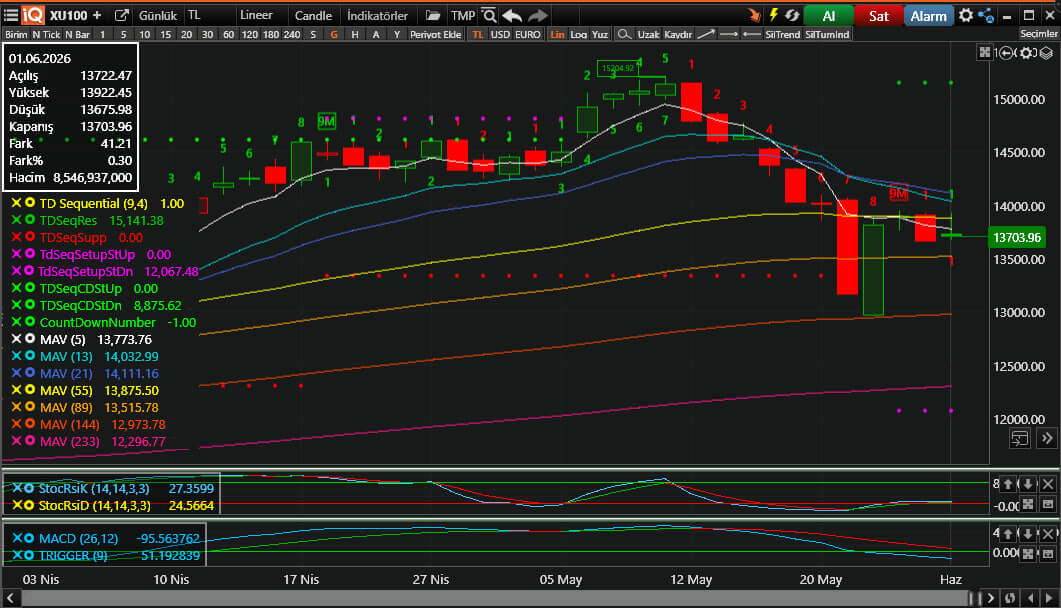
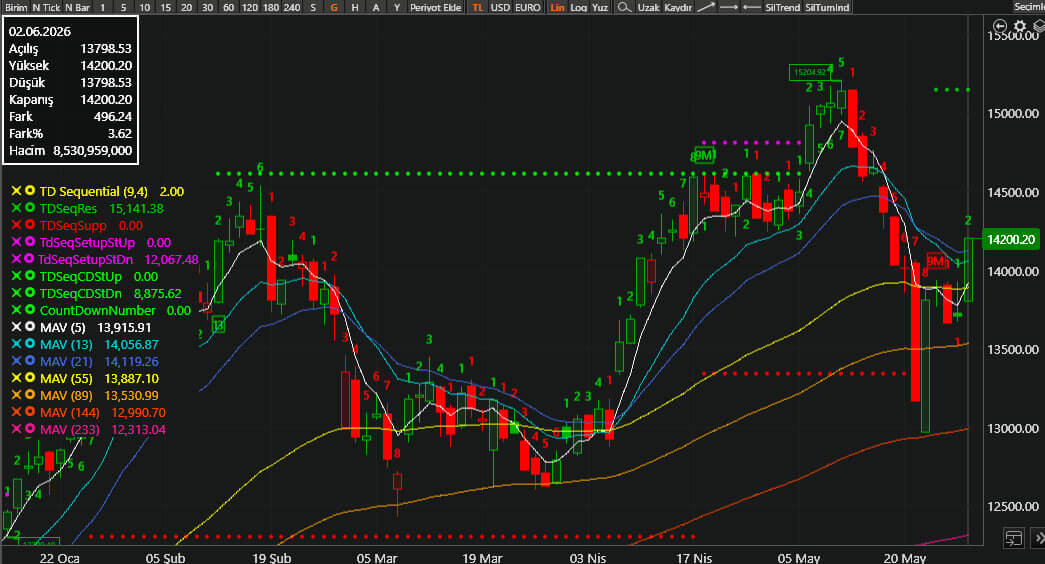
yaz

diff --git a/app/borsa/gunluk-borsa-ozeti/page.tsx b/app/borsa/gunluk-borsa-ozeti/page.tsx
@@ -2,121 +2,105 @@ import Image from "next/image";
 import Link from "next/link";
 
 const bistVeri = {
-  tarih: "01.06.2026",
-  kapanis: "13703.96",
-  degisimYuzde: 0.3,
-  toplamHacim: "301.970.056.573",
+  tarih: "02.06.2026",
+  kapanis: "14200.20",
+  degisimYuzde: 3.62,
+  toplamHacim: "315.260.306.181",
 };
 
 const tumYukselenler = [
-  { kod: "BIGTK", fark: "+10,00%" },
-  { kod: "SEGMN", fark: "+10,00%" },
-  { kod: "ATATP", fark: "+9,99%" },
-  { kod: "EMPAE", fark: "+9,99%" },
-  { kod: "MIATK", fark: "+9,99%" },
-  { kod: "CELHA", fark: "+9,99%" },
-  { kod: "ACSEL", fark: "+9,99%" },
-  { kod: "SMART", fark: "+9,98%" },
+  { kod: "GMTAS", fark: "+10,00%" },
+  { kod: "KARTN", fark: "+10,00%" },
+  { kod: "ISKPL", fark: "+10,00%" },
+  { kod: "GESAN", fark: "+10,00%" },
+  { kod: "KNFRT", fark: "+10,00%" },
+  { kod: "AKMGY", fark: "+10,00%" },
+  { kod: "ESCAR", fark: "+10,00%" },
+  { kod: "BJKAS", fark: "+10,00%" },
+  { kod: "QPERPF1", fark: "+10,00%" },
 ];
 
 const tumDusenler = [
-  { kod: "RALYH", fark: "-10,00%" },
-  { kod: "APYVCF2", fark: "-10,00%" },
-  { kod: "ICBCT", fark: "-10,00%" },
-  { kod: "HPARTF2", fark: "-9,91%" },
-  { kod: "ALKLC", fark: "-9,19%" },
-  { kod: "KORDS", fark: "-8,93%" },
-  { kod: "RPTEKF2", fark: "-8,10%" },
-  { kod: "IZENR", fark: "-7,61%" },
+  { kod: "UCAYM", fark: "-10,00%" },
+  { kod: "RPSTPF2", fark: "-9,98%" },
+  { kod: "DERHL", fark: "-9,21%" },
+  { kod: "KTSKR", fark: "-6,41%" },
+  { kod: "RALYH", fark: "-5,60%" },
+  { kod: "KRDMB", fark: "-5,33%" },
+  { kod: "MHRGY", fark: "-5,17%" },
+  { kod: "ICUGS", fark: "-5,07%" },
+  { kod: "IZMDC", fark: "-4,51%" },
 ];
 
 const tumHacimliler = [
-  { kod: "AKBNK", hacim: "13.320.700.123" },
-  { kod: "THYAO", hacim: "13.117.523.899" },
-  { kod: "ASTOR", hacim: "11.837.745.727" },
-  { kod: "ASELS", hacim: "11.123.525.274" },
-  { kod: "KTLEV", hacim: "10.413.160.557" },
-  { kod: "EREGL", hacim: "9.405.024.143" },
-  { kod: "TUPRS", hacim: "7.429.088.645" },
-  { kod: "ISCTR", hacim: "7.301.657.699" },
+  { kod: "AKBNK", hacim: "15.173.127.030" },
+  { kod: "KTLEV", hacim: "13.961.277.023" },
+  { kod: "THYAO", hacim: "12.781.499.308" },
+  { kod: "ASTOR", hacim: "11.881.024.884" },
+  { kod: "ASELS", hacim: "10.995.928.495" },
+  { kod: "EKDMR", hacim: "9.271.245.675" },
+  { kod: "EREGL", hacim: "8.161.365.373" },
+  { kod: "ISCTR", hacim: "8.040.202.015" },
+  { kod: "YKBNK", hacim: "7.442.906.989" },
 ];
 
 const tumParaGirisi = [
-  { kod: "TUPRS", tutar: "+73.202.380" },
-  { kod: "YKBNK", tutar: "+73.151.486" },
-  { kod: "TCELL", tutar: "+70.855.021" },
-  { kod: "MIATK", tutar: "+58.762.227" },
-  { kod: "PETKM", tutar: "+57.729.183" },
-  { kod: "CWENE", tutar: "+35.967.116" },
-  { kod: "NETCD", tutar: "+34.799.031" },
-  { kod: "KRDMD", tutar: "+32.506.631" },
+  { kod: "ASTOR", tutar: "+246.176.342" },
+  { kod: "ASELS", tutar: "+234.077.702" },
+  { kod: "THYAO", tutar: "+201.603.220" },
+  { kod: "KCHOL", tutar: "+98.289.829" },
+  { kod: "ISCTR", tutar: "+95.039.012" },
+  { kod: "VAKBN", tutar: "+87.144.390" },
+  { kod: "SAHOL", tutar: "+80.810.731" },
+  { kod: "TUPRS", tutar: "+80.737.574" },
 ];
 
 const tumParaCikisi = [
-  { kod: "SAHOL", tutar: "-351.337.739" },
-  { kod: "AKBNK", tutar: "-267.410.912" },
-  { kod: "ASELS", tutar: "-224.351.339" },
-  { kod: "IZENR", tutar: "-104.359.613" },
-  { kod: "TSPOR", tutar: "-82.813.554" },
-  { kod: "KCHOL", tutar: "-73.311.134" },
-  { kod: "GENIL", tutar: "-61.790.021" },
-  { kod: "GESAN", tutar: "-54.744.044" },
+  { kod: "KTLEV", tutar: "-146.339.274" },
+  { kod: "AKBNK", tutar: "-135.353.992" },
+  { kod: "EKDMR", tutar: "-113.070.049" },
+  { kod: "MIATK", tutar: "-63.983.599" },
+  { kod: "YKBNK", tutar: "-59.138.910" },
+  { kod: "KRDMB", tutar: "-43.674.809" },
+  { kod: "ENKAI", tutar: "-43.082.764" },
 ];
 
 const enCokAlisYapanKurumlar = [
-  { kurum: "IS", hacim: "2.376.244.078", oran: "%17,92" },
-  { kurum: "TERA", hacim: "2.318.849.288", oran: "%17,49" },
-  { kurum: "QNB YATIRIM", hacim: "1.152.448.621", oran: "%8,69" },
-  { kurum: "YAPI KREDI", hacim: "1.025.719.278", oran: "%7,74" },
-  { kurum: "GARANTI BBVA", hacim: "935.597.045", oran: "%7,06" },
+  { kurum: "BANK OF AMERICA", hacim: "4.630.788.421", oran: "%29,84" },
+  { kurum: "YATIRIM FINANSMAN", hacim: "2.211.042.926", oran: "%14,25" },
+  { kurum: "ZIRAAT", hacim: "1.717.175.404", oran: "%11,07" },
+  { kurum: "PUSULA YAT.", hacim: "1.368.875.873", oran: "%8,82" },
+  { kurum: "YAPI KREDI", hacim: "1.153.767.391", oran: "%7,44" },
 ];
 
 const enCokSatisYapanKurumlar = [
-  { kurum: "BANK OF AMERICA", hacim: "-2.914.722.131", oran: "%21,98" },
-  { kurum: "GEDIK", hacim: "-2.153.787.947", oran: "%16,24" },
-  { kurum: "AK", hacim: "-1.606.322.147", oran: "%12,11" },
-  { kurum: "INFO", hacim: "-1.140.871.912", oran: "%8,60" },
-  { kurum: "BULLS YATIRIM", hacim: "-949.410.985", oran: "%7,16" },
+  { kurum: "AK", hacim: "-2.455.816.201", oran: "%15,83" },
+  { kurum: "QNB YATIRIM", hacim: "-1.981.940.178", oran: "%12,77" },
+  { kurum: "IS", hacim: "-1.517.735.909", oran: "%9,78" },
+  { kurum: "TEB", hacim: "-1.341.010.331", oran: "%8,64" },
+  { kurum: "VAKIF", hacim: "-916.020.093", oran: "%5,90" },
 ];
 
 const enCokHacimYapanKurumlar = [
-  { kurum: "YAPI KREDI", hacim: "83.789.031.438", oran: "%13,87" },
-  { kurum: "BANK OF AMERICA", hacim: "75.868.315.900", oran: "%12,56" },
-  { kurum: "IS", hacim: "63.950.208.007", oran: "%10,59" },
-  { kurum: "AK", hacim: "54.710.600.191", oran: "%9,06" },
-  { kurum: "A1 CAPITAL", hacim: "25.915.100.221", oran: "%4,29" },
+  { kurum: "YAPI KREDI", hacim: "78.561.295.704", oran: "%12,46" },
+  { kurum: "BANK OF AMERICA", hacim: "78.328.440.070", oran: "%12,42" },
+  { kurum: "IS", hacim: "63.249.858.370", oran: "%10,03" },
+  { kurum: "AK", hacim: "53.163.428.970", oran: "%8,43" },
+  { kurum: "A1 CAPITAL", hacim: "29.156.395.490", oran: "%4,62" },
 ];
 
 const ekonomikTakvimVerileri = [
   {
-    tarih: "01.06.2026",
+    tarih: "03.06.2026",
     kayitlar: [
       {
         saat: "10:00",
         ulke: "TR",
-        gosterge: "Türkiye İmalat Sanayi PMI",
-        onem: "kirmizi" as const,
-        aciklanan: "49.8",
+        gosterge: "İSO Türkiye İmalat PMI",
+        onem: "turuncu-gri" as const,
+        aciklanan: "-",
         beklenti: "-",
         onceki: "45.7",
-      },
-      {
-        saat: "10:00",
-        ulke: "TR",
-        gosterge: "GSYH Yıllık Değişim",
-        onem: "kirmizi" as const,
-        aciklanan: "2.5%",
-        beklenti: "2.7%",
-        onceki: "3.4%",
-      },
-      {
-        saat: "11:00",
-        ulke: "TR",
-        gosterge: "İbrazında Karşılıksız Kalan Çek (adet)",
-        onem: "sari-tek" as const,
-        aciklanan: "10.435",
-        beklenti: "-",
-        onceki: "18.131",
       },
     ],
   },
